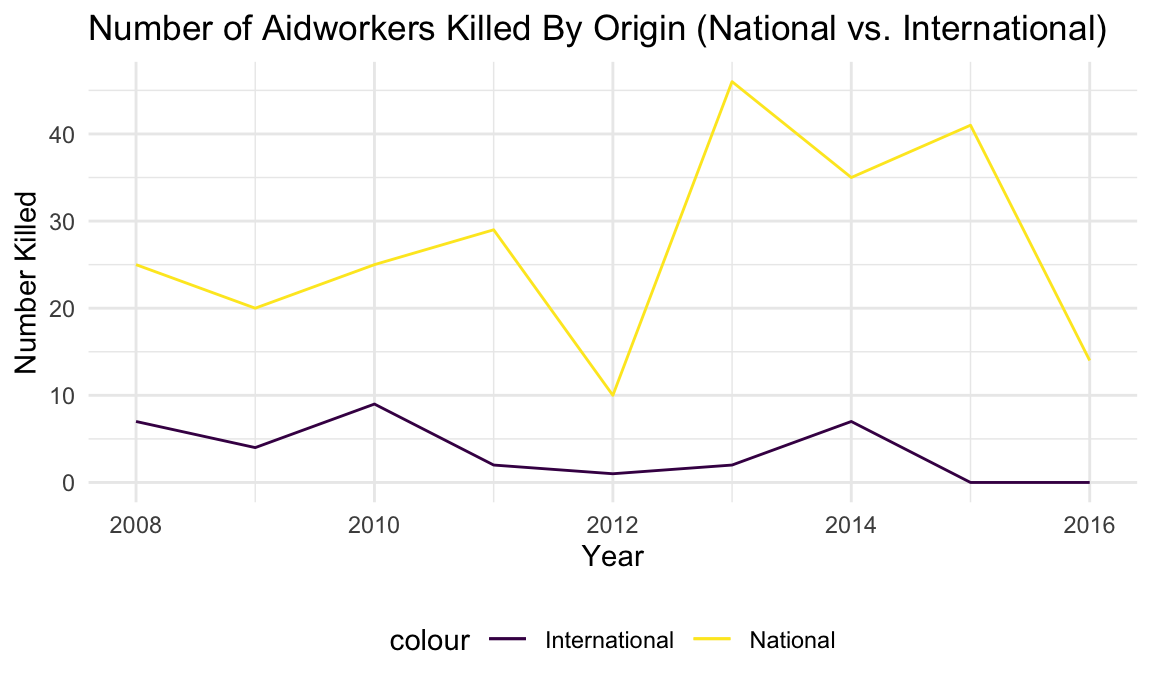
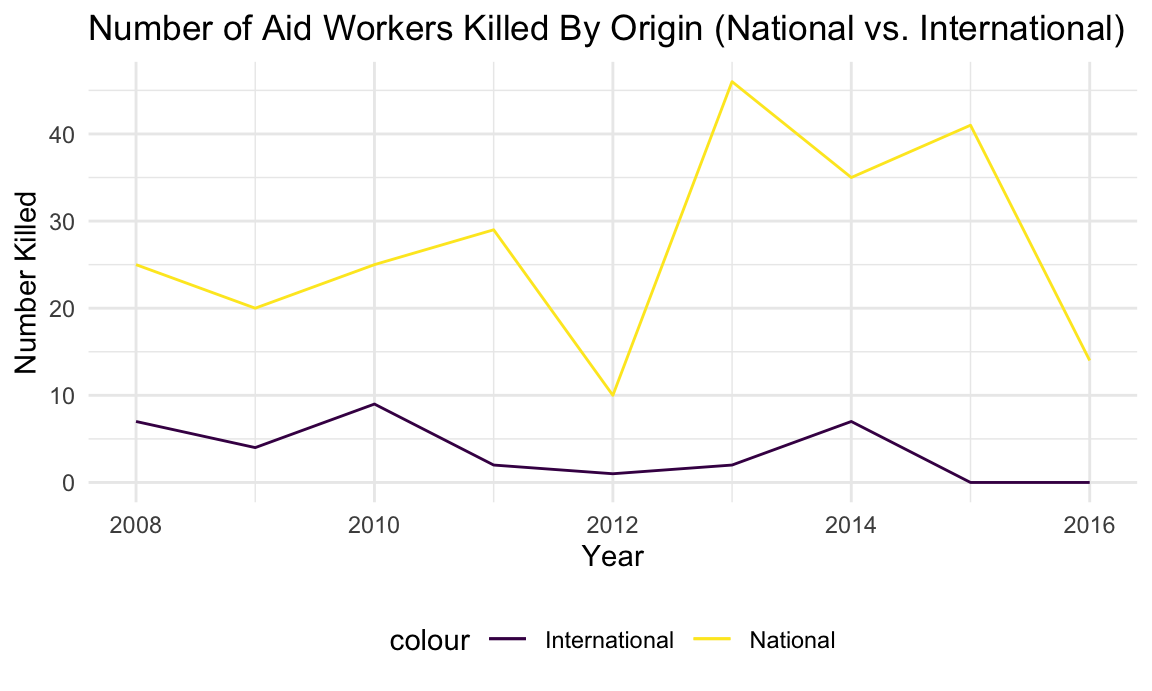
2/5 Afghanistan figures described

Changed region(s): [[0.25, 0.0, 1.0, 0.0912]]

diff --git a/Afghanistan_case_study.html b/Afghanistan_case_study.html
@@ -404,7 +404,8 @@ options(
 scale_colour_discrete = scale_colour_viridis_d
 scale_fill_discrete = scale_fill_viridis_d</code></pre>
 <p>##Explain</p>
-<p>Why we chose Afghanistan… Chose Afghanistan because it has consistently been among the most deadly countries for aid workers, so would have a lot of data. Which datasets are being used… Using Aid worker dataset and the Uppsala datset to compare aidworker deaths to Civilian deaths. We also intended to use a dataset (SHCC) describing attacks on aidworkers, health facilities, and healthcare transport, but this datset was not robust enough to support meaningful data visualization. As such, we chose to exclude it.</p>
+<p>We chose to focus on Afghanistan because it has consistently been among the most deadly countries for aid workers, so we expected fairly robust data. Further, Afghanistan especially has been heavily affected by American occupation, which has changed dramatically between presidential administrations.</p>
+<p>Which datasets are being used… We are using the aid worker dataset and the Uppsala datset to compare aidworker deaths to Civilian deaths. We also intended to use a dataset (SHCC) describing attacks on aidworkers, health facilities, and healthcare transport, but this dataset was not robust enough to support meaningful data visualization. As such, we chose to exclude it.</p>
 <p>Using the years 2008-2016 because…. and supply code 2008-2016 chosen to see whether there might be differences between the Bush (2008-2012) and Obama (2012-2016) administrations.</p>
 <p>Aidworker dataset - cleaning and tailoring</p>
 <pre class="r"><code>#Kailey notes: from section 1 cleaning and filtered for afghanistan/year
@@ -440,13 +441,13 @@ afghan_aidworker_df =
 <h2>Starting EDA and vis</h2>
 <p>Internationals vs. nationals killed (Not in the to-do list but has an interesting spikes and dips; check historical context?)</p>
 <pre class="r"><code>afghan_aidworker_international_df =
-  afghan_aidworker_df %&gt;%
-  group_by(year) %&gt;%
+  afghan_aidworker_df %&gt;% 
+  group_by(year) %&gt;% 
   summarise(sum(internationals_killed)) %&gt;%
   mutate(
     internationals_killed_tot = `sum(internationals_killed)`
   ) %&gt;%
-  select(year, internationals_killed_tot)</code></pre>
+  select(year, internationals_killed_tot) </code></pre>
 <pre><code>## `summarise()` ungrouping output (override with `.groups` argument)</code></pre>
 <pre class="r"><code>afghan_aidworker_national_df =
   afghan_aidworker_df %&gt;%
@@ -466,11 +467,13 @@ afghan_aidworker_df_new %&gt;%
    geom_line() +
   geom_line(aes(x = year, y = nationals_killed_tot, col = &quot;National&quot;)) +
   labs(
-    title = &quot;Number of Aidworkers Killed By Origin (National vs. International)&quot;,
+    title = &quot;Number of Aid Workers Killed By Origin (National vs. International)&quot;,
     x = &quot;Year&quot;,
     y = &quot;Number Killed&quot;
   )</code></pre>
 <p><img src="Afghanistan_case_study_files/figure-html/unnamed-chunk-1-1.png" width="90%" /></p>
+<p><em>2012</em> - The drop in aid worker death is correlated with the withdrawal of half of American troops in Afghanistan.</p>
+<p><em>2013</em> - A sharp increase in aid worker deaths, primarily in rural areas. In 2013, aid workers were frequently caught in crossfire, ambush, and accidents. As you can see in this figure, a majority of aid workers killed are of national origin. According to a report published by the UN in 2013, “Afghan aid workers suffered heavy casualties in part because international organizations were using local staff and local organizations to reduce their own risk…About 85 per cent of United Nations staff involved in security incidents were Afghans; for international non-governmental organizations, it was 76 per cent. Security arrangements of those organizations and the United Nations often left local humanitarian organizations less secure.” Local aid workers rarely received the same security protections as their international colleagues, forcing them into increasingly unsafe situations. After noting this sharp increase in attacks against local aid workers, many aid organizations took steps to decrease apparent distinctions between international and national aid workers in an effort to protect national aid workers’ security.</p>
 <p>More visualizations using aidworker df</p>
 <pre class="r"><code>means_attack_p =
 afghan_aidworker_df %&gt;%
@@ -505,8 +508,11 @@ subplot(means_attack_p, attack_context_p)</code></pre>
 <pre><code>## No scatter mode specifed:
 ##   Setting the mode to markers
 ##   Read more about this attribute -&gt; https://plot.ly/r/reference/#scatter-mode</code></pre>
-<div id="htmlwidget-b00bd8f8852e7a236a0e" style="width:90%;height:345.6px;" class="plotly html-widget"></div>
-<script type="application/json" data-for="htmlwidget-b00bd8f8852e7a236a0e">{"x":{"data":[{"x":[2008,2009,2013,2015,2016],"y":[4,1,1,49,1],"type":"scatter","mode":"markers","name":"Aerial bombardment","marker":{"color":"rgba(102,194,165,1)","line":{"color":"rgba(102,194,165,1)"}},"textfont":{"color":"rgba(102,194,165,1)"},"error_y":{"color":"rgba(102,194,165,1)"},"error_x":{"color":"rgba(102,194,165,1)"},"line":{"color":"rgba(102,194,165,1)"},"xaxis":"x","yaxis":"y","frame":null},{"x":[2009,2009,2010,2010,2010,2011,2011,2011,2011,2011,2011,2011,2012,2012,2012,2012,2012,2013,2013,2013,2013,2013,2013,2014,2014,2014,2014,2015,2016],"y":[1,1,1,3,1,2,1,1,1,1,2,1,1,1,1,1,2,1,1,2,2,1,1,4,1,1,1,1,1],"type":"scatter","mode":"markers","name":"Bodily assault","marker":{"color":"rgba(199,169,129,1)","line":{"color":"rgba(199,169,129,1)"}},"textfont":{"color":"rgba(199,169,129,1)"},"error_y":{"color":"rgba(199,169,129,1)"},"error_x":{"color":"rgba(199,169,129,1)"},"line":{"color":"rgba(199,169,129,1)"},"xaxis":"x","yaxis":"y","frame":null},{"x":[2008,2009,2012,2013,2013,2013],"y":[1,12,1,1,4,1],"type":"scatter","mode":"markers","name":"Body-borne IED","marker":{"color":"rgba(246,143,106,1)","line":{"color":"rgba(246,143,106,1)"}},"textfont":{"color":"rgba(246,143,106,1)"},"error_y":{"color":"rgba(246,143,106,1)"},"error_x":{"color":"rgba(246,143,106,1)"},"line":{"color":"rgba(246,143,106,1)"},"xaxis":"x","yaxis":"y","frame":null},{"x":[2011,2012,2013,2013,2014],"y":[9,4,4,2,2],"type":"scatter","mode":"markers","name":"Complex attack","marker":{"color":"rgba(195,154,163,1)","line":{"color":"rgba(195,154,163,1)"}},"textfont":{"color":"rgba(195,154,163,1)"},"error_y":{"color":"rgba(195,154,163,1)"},"error_x":{"color":"rgba(195,154,163,1)"},"line":{"color":"rgba(195,154,163,1)"},"xaxis":"x","yaxis":"y","frame":null},{"x":[2008,2008,2008,2008,2010,2011,2011,2011,2011,2013,2013,2013,2014,2015,2015,2015],"y":[2,1,1,1,4,1,1,6,3,5,1,2,1,5,1,2],"type":"scatter","mode":"markers","name":"Kidnap-killing","marker":{"color":"rgba(157,157,202,1)","line":{"color":"rgba(157,157,202,1)"}},"textfont":{"color":"rgba(157,157,202,1)"},"error_y":{"color":"rgba(157,157,202,1)"},"error_x":{"color":"rgba(157,157,202,1)"},"line":{"color":"rgba(157,157,202,1)"},"xaxis":"x","yaxis":"y","frame":null},{"x":[2008,2008,2008,2008,2008,2008,2009,2009,2009,2009,2009,2009,2009,2009,2010,2010,2010,2010,2010,2010,2010,2010,2010,2010,2010,2010,2010,2010,2010,2010,2010,2010,2010,2010,2010,2010,2011,2011,2011,2011,2011,2011,2011,2011,2011,2011,2011,2011,2011,2011,2012,2012,2012,2012,2012,2012,2012,2012,2012,2012,2012,2012,2012,2012,2012,2012,2012,2012,2012,2012,2012,2012,2013,2013,2013,2013,2013,2013,2013,2013,2013,2013,2013,2013,2013,2013,2013,2013,2013,2013,2013,2013,2013,2013,2013,2013,2013,2013,2013,2013,2014,2014,2014,2014,2014,2014,2014,2014,2014,2014,2014,2014,2014,2014,2014,2014,2014,2014,2014,2014,2014,2014,2014,2014,2015,2015,2015,2015,2015,2015,2015,2015,2015,2015,2015,2015,2015,2015,2016,2016,2016,2016,2016,2016,2016,2016,2016,2016,2016,2016,2016,2016],"y":[2,3,2,1,1,1,3,1,2,1,1,1,16,2,3,1,5,2,3,4,2,2,2,2,2,5,4,4,1,2,2,1,1,3,1,1,1,3,2,1,1,3,2,3,1,4,2,3,4,1,1,2,3,1,5,4,2,1,1,2,1,1,1,2,4,4,1,2,1,3,3,5,4,1,1,3,1,1,1,1,10,3,11,2,3,1,3,3,2,2,5,2,1,3,1,3,2,3,1,1,3,1,1,3,2,1,4,1,1,2,1,1,4,1,5,3,7,3,2,1,6,3,1,4,1,3,1,2,1,2,1,3,2,2,1,2,1,2,4,5,7,2,7,1,1,2,1,3,2,1,4,1],"type":"scatter","mode":"markers","name":"Kidnapping","marker":{"color":"rgba(206,146,197,1)","line":{"color":"rgba(206,146,197,1)"}},"textfont":{"color":"rgba(206,146,197,1)"},"error_y":{"color":"rgba(206,146,197,1)"},"error_x":{"color":"rgba(206,146,197,1)"},"line":{"color":"rgba(206,146,197,1)"},"xaxis":"x","yaxis":"y","frame":null},{"x":[2010,2015],"y":[5,1],"type":"scatter","mode":"markers","name":"Landmine","marker":{"color":"rgba(220,159,172,1)","line":{"color":"rgba(220,159,172,1)"}},"textfont":{"color":"rgba(220,159,172,1)"},"error_y":{"color":"rgba(220,159,172,1)"},"error_x":{"color":"rgba(220,159,172,1)"},"line":{"color":"rgba(220,159,172,1)"},"xaxis":"x","yaxis":"y","frame":null},{"x":[2012,2013,2014],"y":[3,3,1],"type":"scatter","mode":"markers","name":"Other Explosives","marker":{"color":"rgba(186,200,114,1)","line":{"color":"rgba(186,200,114,1)"}},"textfont":{"color":"rgba(186,200,114,1)"},"error_y":{"color":"rgba(186,200,114,1)"},"error_x":{"color":"rgba(186,200,114,1)"},"line":{"color":"rgba(186,200,114,1)"},"xaxis":"x","yaxis":"y","frame":null},{"x":[2013],"y":[1],"type":"scatter","mode":"markers","name":"Rape/sexual assault","marker":{"color":"rgba(196,217,74,1)","line":{"color":"rgba(196,217,74,1)"}},"textfont":{"color":"rgba(196,217,74,1)"},"error_y":{"color":"rgba(196,217,74,1)"},"error_x":{"color":"rgba(196,217,74,1)"},"line":{"color":"rgba(196,217,74,1)"},"xaxis":"x","yaxis":"y","frame":null},{"x":[2008,2009,2010,2010,2011,2012,2012,2012,2012,2013,2013,2013,2013,2013,2013,2014,2014,2014,2014,2015,2015,2016],"y":[1,3,3,2,3,1,1,1,1,1,3,2,1,1,1,3,1,3,2,1,1,1],"type":"scatter","mode":"markers","name":"Roadside IED","marker":{"color":"rgba(242,217,54,1)","line":{"color":"rgba(242,217,54,1)"}},"textfont":{"color":"rgba(242,217,54,1)"},"error_y":{"color":"rgba(242,217,54,1)"},"error_x":{"color":"rgba(242,217,54,1)"},"line":{"color":"rgba(242,217,54,1)"},"xaxis":"x","yaxis":"y","frame":null},{"x":[2009,2010,2010,2010,2011,2011,2013,2013,2013],"y":[1,1,4,1,1,3,1,1,1],"type":"scatter","mode":"markers","name":"Shelling","marker":{"color":"rgba(246,209,94,1)","line":{"color":"rgba(246,209,94,1)"}},"textfont":{"color":"rgba(246,209,94,1)"},"error_y":{"color":"rgba(246,209,94,1)"},"error_x":{"color":"rgba(246,209,94,1)"},"line":{"color":"rgba(246,209,94,1)"},"xaxis":"x","yaxis":"y","frame":null},{"x":[2008,2008,2008,2008,2008,2008,2008,2008,2009,2009,2009,2009,2009,2009,2010,2010,2010,2010,2010,2010,2010,2010,2010,2010,2010,2010,2010,2010,2011,2011,2011,2011,2011,2011,2011,2011,2011,2011,2011,2011,2011,2011,2011,2012,2012,2012,2012,2012,2012,2012,2012,2012,2012,2012,2012,2012,2012,2012,2012,2013,2013,2013,2013,2013,2013,2013,2013,2013,2013,2013,2013,2013,2013,2013,2013,2013,2013,2014,2014,2014,2014,2014,2014,2014,2014,2014,2014,2015,2015,2015,2016,2016,2016,2016,2016,2016,2016],"y":[1,1,2,1,5,1,1,1,1,1,1,1,1,1,4,1,1,1,1,2,1,1,2,1,2,1,1,1,1,1,1,3,1,1,1,1,1,1,1,1,1,1,1,1,1,1,1,1,1,2,1,1,1,1,4,1,1,1,1,1,1,1,4,1,1,1,2,1,1,1,1,1,1,4,2,1,7,1,1,1,2,1,1,1,2,1,2,9,1,2,1,2,7,3,1,1,1],"type":"scatter","mode":"markers","name":"Shooting","marker":{"color":"rgba(231,198,142,1)","line":{"color":"rgba(231,198,142,1)"}},"textfont":{"color":"rgba(231,198,142,1)"},"error_y":{"color":"rgba(231,198,142,1)"},"error_x":{"color":"rgba(231,198,142,1)"},"line":{"color":"rgba(231,198,142,1)"},"xaxis":"x","yaxis":"y","frame":null},{"x":[2008,2008,2008,2008,2008,2008,2008,2009,2009,2009,2009,2009,2010,2010,2010,2010,2010,2010,2010,2010,2010,2010,2011,2011,2011,2011,2011,2012,2012,2013,2013,2013,2013,2014,2014,2014,2014,2014,2015],"y":[1,1,12,1,2,6,1,1,1,1,1,5,1,1,1,1,1,10,1,1,1,2,1,1,1,1,1,1,4,3,1,3,2,1,11,6,7,2,3],"type":"scatter","mode":"markers","name":"Unknown","marker":{"color":"rgba(207,188,163,1)","line":{"color":"rgba(207,188,163,1)"}},"textfont":{"color":"rgba(207,188,163,1)"},"error_y":{"color":"rgba(207,188,163,1)"},"error_x":{"color":"rgba(207,188,163,1)"},"line":{"color":"rgba(207,188,163,1)"},"xaxis":"x","yaxis":"y","frame":null},{"x":[2008,2008,2009,2010,2011,2011,2012,2012,2012,2012,2013,2013,2013,2013,2013,2014,2014,2014,2014,2015,2016],"y":[4,1,1,1,3,2,2,2,3,5,2,1,1,1,1,1,2,1,2,1,3],"type":"scatter","mode":"markers","name":"Vehicle-born IED","marker":{"color":"rgba(179,179,179,1)","line":{"color":"rgba(179,179,179,1)"}},"textfont":{"color":"rgba(179,179,179,1)"},"error_y":{"color":"rgba(179,179,179,1)"},"error_x":{"color":"rgba(179,179,179,1)"},"line":{"color":"rgba(179,179,179,1)"},"xaxis":"x","yaxis":"y","frame":null},{"x":[2008,2008,2008,2008,2008,2008,2008,2008,2008,2008,2008,2008,2008,2008,2008,2009,2009,2009,2009,2009,2010,2010,2010,2010,2010,2010,2010,2010,2010,2010,2010,2010,2010,2010,2010,2010,2010,2010,2010,2010,2010,2010,2010,2010,2010,2010,2010,2010,2011,2011,2011,2011,2011,2011,2011,2011,2011,2011,2011,2011,2011,2011,2011,2011,2011,2011,2011,2011,2011,2012,2012,2012,2012,2012,2012,2012,2012,2012,2012,2012,2012,2012,2012,2012,2012,2012,2012,2012,2012,2012,2012,2012,2012,2012,2012,2012,2012,2012,2012,2013,2013,2013,2013,2013,2013,2013,2013,2013,2013,2013,2013,2013,2013,2013,2013,2013,2013,2013,2013,2013,2013,2013,2013,2013,2013,2013,2013,2013,2013,2013,2013,2013,2013,2013,2014,2014,2014,2014,2014,2014,2014,2014,2014,2014,2014,2014,2014,2014,2014,2014,2014,2015,2015,2015,2015,2015,2015,2015,2015,2015,2015,2015,2015,2015,2015,2016,2016,2016,2016,2016,2016,2016,2016,2016,2016,2016,2016],"y":[2,1,12,2,1,2,3,5,1,6,4,1,1,1,1,1,1,1,1,16,5,1,5,1,1,2,4,1,2,2,10,2,5,3,2,1,4,4,1,2,2,1,2,2,3,1,1,1,3,1,1,1,3,3,2,1,1,1,1,3,3,1,2,2,3,2,3,4,1,1,2,1,3,1,1,4,1,1,1,2,1,1,1,2,1,1,4,2,1,3,1,4,4,2,1,1,1,1,3,4,1,1,1,3,1,4,1,1,3,11,3,2,2,1,3,1,3,2,2,1,1,1,1,1,5,2,1,4,3,2,2,7,1,1,3,3,3,1,2,2,1,2,1,6,4,2,5,3,2,3,1,3,1,2,3,1,2,1,3,1,2,1,1,1,2,5,2,7,2,1,3,1,3,1,4,1,1],"type":"scatter","mode":"markers","name":"Ambush","marker":{"color":"rgba(102,194,165,1)","line":{"color":"rgba(102,194,165,1)"}},"textfont":{"color":"rgba(102,194,165,1)"},"error_y":{"color":"rgba(102,194,165,1)"},"error_x":{"color":"rgba(102,194,165,1)"},"line":{"color":"rgba(102,194,165,1)"},"xaxis":"x2","yaxis":"y2","frame":null},{"x":[2008,2008,2009,2009,2009,2009,2010,2010,2010,2011,2011,2011,2011,2011,2011,2011,2011,2012,2012,2012,2012,2012,2012,2013,2013,2013,2013,2013,2013,2013,2013,2013,2014,2014,2015,2015,2016,2016],"y":[4,1,1,1,1,1,1,1,1,1,1,1,1,1,1,1,3,1,1,2,1,1,1,1,1,1,1,1,1,1,2,1,2,1,49,2,1,1],"type":"scatter","mode":"markers","name":"Combat/Crossfire","marker":{"color":"rgba(252,141,98,1)","line":{"color":"rgba(252,141,98,1)"}},"textfont":{"color":"rgba(252,141,98,1)"},"error_y":{"color":"rgba(252,141,98,1)"},"error_x":{"color":"rgba(252,141,98,1)"},"line":{"color":"rgba(252,141,98,1)"},"xaxis":"x2","yaxis":"y2","frame":null},{"x":[2008,2008,2008,2008,2009,2009,2009,2009,2009,2010,2010,2010,2010,2010,2010,2010,2010,2010,2010,2010,2011,2011,2011,2011,2011,2011,2011,2011,2011,2011,2011,2012,2012,2012,2012,2012,2012,2013,2013,2013,2013,2013,2013,2013,2013,2013,2013,2013,2013,2013,2013,2013,2014,2014,2014,2014,2014,2014,2016,2016,2016],"y":[1,1,1,1,1,1,1,1,1,4,1,1,1,1,1,2,1,1,3,1,1,1,1,1,1,1,2,1,1,3,1,1,1,1,1,1,1,1,1,1,1,1,1,1,1,1,2,1,2,1,1,3,1,2,1,1,1,1,1,1,1],"type":"scatter","mode":"markers","name":"Individual attack","marker":{"color":"rgba(141,160,203,1)","line":{"color":"rgba(141,160,203,1)"}},"textfont":{"color":"rgba(141,160,203,1)"},"error_y":{"color":"rgba(141,160,203,1)"},"error_x":{"color":"rgba(141,160,203,1)"},"line":{"color":"rgba(141,160,203,1)"},"xaxis":"x2","yaxis":"y2","frame":null},{"x":[2012,2013],"y":[2,2],"type":"scatter","mode":"markers","name":"Mob violence","marker":{"color":"rgba(231,138,195,1)","line":{"color":"rgba(231,138,195,1)"}},"textfont":{"color":"rgba(231,138,195,1)"},"error_y":{"color":"rgba(231,138,195,1)"},"error_x":{"color":"rgba(231,138,195,1)"},"line":{"color":"rgba(231,138,195,1)"},"xaxis":"x2","yaxis":"y2","frame":null},{"x":[2008,2008,2008,2009,2009,2010,2010,2011,2011,2011,2011,2012,2012,2012,2012,2012,2012,2012,2012,2012,2013,2013,2013,2013,2013,2013,2013,2014,2014,2014,2014,2014,2015,2015,2015,2015,2016,2016,2016,2016,2016],"y":[2,1,1,1,12,1,1,2,1,1,9,1,1,2,5,3,2,4,5,5,1,2,3,1,4,4,3,2,1,1,2,2,1,9,1,1,3,7,7,1,1],"type":"scatter","mode":"markers","name":"Raid","marker":{"color":"rgba(166,216,84,1)","line":{"color":"rgba(166,216,84,1)"}},"textfont":{"color":"rgba(166,216,84,1)"},"error_y":{"color":"rgba(166,216,84,1)"},"error_x":{"color":"rgba(166,216,84,1)"},"line":{"color":"rgba(166,216,84,1)"},"xaxis":"x2","yaxis":"y2","frame":null},{"x":[2008,2008,2008,2008,2008,2008,2009,2009,2009,2009,2009,2009,2009,2009,2009,2009,2010,2010,2010,2010,2010,2010,2010,2010,2010,2010,2010,2010,2010,2011,2011,2011,2011,2011,2011,2011,2012,2012,2012,2012,2013,2013,2013,2013,2013,2013,2013,2013,2013,2013,2013,2013,2013,2013,2014,2014,2014,2014,2014,2014,2014,2014,2014,2014,2014,2014,2014,2014,2014,2014,2014,2014,2014,2014,2014,2014,2014,2014,2015,2015,2015,2015,2015,2015,2015,2016,2016,2016],"y":[1,1,1,1,2,1,3,2,1,1,1,3,2,1,1,5,1,1,3,1,3,4,2,2,4,1,1,2,1,1,1,1,1,6,1,4,1,1,4,3,1,1,10,1,5,1,3,1,1,3,2,2,3,1,4,1,1,1,1,1,1,1,4,1,1,3,1,11,1,1,7,2,1,7,3,1,6,4,5,1,2,1,2,2,1,4,2,2],"type":"scatter","mode":"markers","name":"Unknown","marker":{"color":"rgba(255,217,47,1)","line":{"color":"rgba(255,217,47,1)"}},"textfont":{"color":"rgba(255,217,47,1)"},"error_y":{"color":"rgba(255,217,47,1)"},"error_x":{"color":"rgba(255,217,47,1)"},"line":{"color":"rgba(255,217,47,1)"},"xaxis":"x2","yaxis":"y2","frame":null}],"layout":{"xaxis":{"domain":[0,0.48],"automargin":true,"anchor":"y"},"xaxis2":{"domain":[0.52,1],"automargin":true,"anchor":"y2"},"yaxis2":{"domain":[0,1],"automargin":true,"anchor":"x2"},"yaxis":{"domain":[0,1],"automargin":true,"anchor":"x"},"annotations":[],"shapes":[],"images":[],"margin":{"b":40,"l":60,"t":25,"r":10},"title":"Victims per Year by Attack Context","hovermode":"closest","showlegend":true},"attrs":{"1fcce38327":{"x":{},"y":{},"color":{},"alpha_stroke":1,"sizes":[10,100],"spans":[1,20],"type":"scatter"},"1fcc58b775e5":{"x":{},"y":{},"color":{},"alpha_stroke":1,"sizes":[10,100],"spans":[1,20],"type":"scatter"}},"source":"A","config":{"showSendToCloud":false},"highlight":{"on":"plotly_click","persistent":false,"dynamic":false,"selectize":false,"opacityDim":0.2,"selected":{"opacity":1},"debounce":0},"subplot":true,"shinyEvents":["plotly_hover","plotly_click","plotly_selected","plotly_relayout","plotly_brushed","plotly_brushing","plotly_clickannotation","plotly_doubleclick","plotly_deselect","plotly_afterplot","plotly_sunburstclick"],"base_url":"https://plot.ly"},"evals":[],"jsHooks":[]}</script>
+<div id="htmlwidget-a172951081f38150f335" style="width:90%;height:345.6px;" class="plotly html-widget"></div>
+<script type="application/json" data-for="htmlwidget-a172951081f38150f335">{"x":{"data":[{"x":[2008,2009,2013,2015,2016],"y":[4,1,1,49,1],"type":"scatter","mode":"markers","name":"Aerial bombardment","marker":{"color":"rgba(102,194,165,1)","line":{"color":"rgba(102,194,165,1)"}},"textfont":{"color":"rgba(102,194,165,1)"},"error_y":{"color":"rgba(102,194,165,1)"},"error_x":{"color":"rgba(102,194,165,1)"},"line":{"color":"rgba(102,194,165,1)"},"xaxis":"x","yaxis":"y","frame":null},{"x":[2009,2009,2010,2010,2010,2011,2011,2011,2011,2011,2011,2011,2012,2012,2012,2012,2012,2013,2013,2013,2013,2013,2013,2014,2014,2014,2014,2015,2016],"y":[1,1,1,3,1,2,1,1,1,1,2,1,1,1,1,1,2,1,1,2,2,1,1,4,1,1,1,1,1],"type":"scatter","mode":"markers","name":"Bodily assault","marker":{"color":"rgba(199,169,129,1)","line":{"color":"rgba(199,169,129,1)"}},"textfont":{"color":"rgba(199,169,129,1)"},"error_y":{"color":"rgba(199,169,129,1)"},"error_x":{"color":"rgba(199,169,129,1)"},"line":{"color":"rgba(199,169,129,1)"},"xaxis":"x","yaxis":"y","frame":null},{"x":[2008,2009,2012,2013,2013,2013],"y":[1,12,1,1,4,1],"type":"scatter","mode":"markers","name":"Body-borne IED","marker":{"color":"rgba(246,143,106,1)","line":{"color":"rgba(246,143,106,1)"}},"textfont":{"color":"rgba(246,143,106,1)"},"error_y":{"color":"rgba(246,143,106,1)"},"error_x":{"color":"rgba(246,143,106,1)"},"line":{"color":"rgba(246,143,106,1)"},"xaxis":"x","yaxis":"y","frame":null},{"x":[2011,2012,2013,2013,2014],"y":[9,4,4,2,2],"type":"scatter","mode":"markers","name":"Complex attack","marker":{"color":"rgba(195,154,163,1)","line":{"color":"rgba(195,154,163,1)"}},"textfont":{"color":"rgba(195,154,163,1)"},"error_y":{"color":"rgba(195,154,163,1)"},"error_x":{"color":"rgba(195,154,163,1)"},"line":{"color":"rgba(195,154,163,1)"},"xaxis":"x","yaxis":"y","frame":null},{"x":[2008,2008,2008,2008,2010,2011,2011,2011,2011,2013,2013,2013,2014,2015,2015,2015],"y":[2,1,1,1,4,1,1,6,3,5,1,2,1,5,1,2],"type":"scatter","mode":"markers","name":"Kidnap-killing","marker":{"color":"rgba(157,157,202,1)","line":{"color":"rgba(157,157,202,1)"}},"textfont":{"color":"rgba(157,157,202,1)"},"error_y":{"color":"rgba(157,157,202,1)"},"error_x":{"color":"rgba(157,157,202,1)"},"line":{"color":"rgba(157,157,202,1)"},"xaxis":"x","yaxis":"y","frame":null},{"x":[2008,2008,2008,2008,2008,2008,2009,2009,2009,2009,2009,2009,2009,2009,2010,2010,2010,2010,2010,2010,2010,2010,2010,2010,2010,2010,2010,2010,2010,2010,2010,2010,2010,2010,2010,2010,2011,2011,2011,2011,2011,2011,2011,2011,2011,2011,2011,2011,2011,2011,2012,2012,2012,2012,2012,2012,2012,2012,2012,2012,2012,2012,2012,2012,2012,2012,2012,2012,2012,2012,2012,2012,2013,2013,2013,2013,2013,2013,2013,2013,2013,2013,2013,2013,2013,2013,2013,2013,2013,2013,2013,2013,2013,2013,2013,2013,2013,2013,2013,2013,2014,2014,2014,2014,2014,2014,2014,2014,2014,2014,2014,2014,2014,2014,2014,2014,2014,2014,2014,2014,2014,2014,2014,2014,2015,2015,2015,2015,2015,2015,2015,2015,2015,2015,2015,2015,2015,2015,2016,2016,2016,2016,2016,2016,2016,2016,2016,2016,2016,2016,2016,2016],"y":[2,3,2,1,1,1,3,1,2,1,1,1,16,2,3,1,5,2,3,4,2,2,2,2,2,5,4,4,1,2,2,1,1,3,1,1,1,3,2,1,1,3,2,3,1,4,2,3,4,1,1,2,3,1,5,4,2,1,1,2,1,1,1,2,4,4,1,2,1,3,3,5,4,1,1,3,1,1,1,1,10,3,11,2,3,1,3,3,2,2,5,2,1,3,1,3,2,3,1,1,3,1,1,3,2,1,4,1,1,2,1,1,4,1,5,3,7,3,2,1,6,3,1,4,1,3,1,2,1,2,1,3,2,2,1,2,1,2,4,5,7,2,7,1,1,2,1,3,2,1,4,1],"type":"scatter","mode":"markers","name":"Kidnapping","marker":{"color":"rgba(206,146,197,1)","line":{"color":"rgba(206,146,197,1)"}},"textfont":{"color":"rgba(206,146,197,1)"},"error_y":{"color":"rgba(206,146,197,1)"},"error_x":{"color":"rgba(206,146,197,1)"},"line":{"color":"rgba(206,146,197,1)"},"xaxis":"x","yaxis":"y","frame":null},{"x":[2010,2015],"y":[5,1],"type":"scatter","mode":"markers","name":"Landmine","marker":{"color":"rgba(220,159,172,1)","line":{"color":"rgba(220,159,172,1)"}},"textfont":{"color":"rgba(220,159,172,1)"},"error_y":{"color":"rgba(220,159,172,1)"},"error_x":{"color":"rgba(220,159,172,1)"},"line":{"color":"rgba(220,159,172,1)"},"xaxis":"x","yaxis":"y","frame":null},{"x":[2012,2013,2014],"y":[3,3,1],"type":"scatter","mode":"markers","name":"Other Explosives","marker":{"color":"rgba(186,200,114,1)","line":{"color":"rgba(186,200,114,1)"}},"textfont":{"color":"rgba(186,200,114,1)"},"error_y":{"color":"rgba(186,200,114,1)"},"error_x":{"color":"rgba(186,200,114,1)"},"line":{"color":"rgba(186,200,114,1)"},"xaxis":"x","yaxis":"y","frame":null},{"x":[2013],"y":[1],"type":"scatter","mode":"markers","name":"Rape/sexual assault","marker":{"color":"rgba(196,217,74,1)","line":{"color":"rgba(196,217,74,1)"}},"textfont":{"color":"rgba(196,217,74,1)"},"error_y":{"color":"rgba(196,217,74,1)"},"error_x":{"color":"rgba(196,217,74,1)"},"line":{"color":"rgba(196,217,74,1)"},"xaxis":"x","yaxis":"y","frame":null},{"x":[2008,2009,2010,2010,2011,2012,2012,2012,2012,2013,2013,2013,2013,2013,2013,2014,2014,2014,2014,2015,2015,2016],"y":[1,3,3,2,3,1,1,1,1,1,3,2,1,1,1,3,1,3,2,1,1,1],"type":"scatter","mode":"markers","name":"Roadside IED","marker":{"color":"rgba(242,217,54,1)","line":{"color":"rgba(242,217,54,1)"}},"textfont":{"color":"rgba(242,217,54,1)"},"error_y":{"color":"rgba(242,217,54,1)"},"error_x":{"color":"rgba(242,217,54,1)"},"line":{"color":"rgba(242,217,54,1)"},"xaxis":"x","yaxis":"y","frame":null},{"x":[2009,2010,2010,2010,2011,2011,2013,2013,2013],"y":[1,1,4,1,1,3,1,1,1],"type":"scatter","mode":"markers","name":"Shelling","marker":{"color":"rgba(246,209,94,1)","line":{"color":"rgba(246,209,94,1)"}},"textfont":{"color":"rgba(246,209,94,1)"},"error_y":{"color":"rgba(246,209,94,1)"},"error_x":{"color":"rgba(246,209,94,1)"},"line":{"color":"rgba(246,209,94,1)"},"xaxis":"x","yaxis":"y","frame":null},{"x":[2008,2008,2008,2008,2008,2008,2008,2008,2009,2009,2009,2009,2009,2009,2010,2010,2010,2010,2010,2010,2010,2010,2010,2010,2010,2010,2010,2010,2011,2011,2011,2011,2011,2011,2011,2011,2011,2011,2011,2011,2011,2011,2011,2012,2012,2012,2012,2012,2012,2012,2012,2012,2012,2012,2012,2012,2012,2012,2012,2013,2013,2013,2013,2013,2013,2013,2013,2013,2013,2013,2013,2013,2013,2013,2013,2013,2013,2014,2014,2014,2014,2014,2014,2014,2014,2014,2014,2015,2015,2015,2016,2016,2016,2016,2016,2016,2016],"y":[1,1,2,1,5,1,1,1,1,1,1,1,1,1,4,1,1,1,1,2,1,1,2,1,2,1,1,1,1,1,1,3,1,1,1,1,1,1,1,1,1,1,1,1,1,1,1,1,1,2,1,1,1,1,4,1,1,1,1,1,1,1,4,1,1,1,2,1,1,1,1,1,1,4,2,1,7,1,1,1,2,1,1,1,2,1,2,9,1,2,1,2,7,3,1,1,1],"type":"scatter","mode":"markers","name":"Shooting","marker":{"color":"rgba(231,198,142,1)","line":{"color":"rgba(231,198,142,1)"}},"textfont":{"color":"rgba(231,198,142,1)"},"error_y":{"color":"rgba(231,198,142,1)"},"error_x":{"color":"rgba(231,198,142,1)"},"line":{"color":"rgba(231,198,142,1)"},"xaxis":"x","yaxis":"y","frame":null},{"x":[2008,2008,2008,2008,2008,2008,2008,2009,2009,2009,2009,2009,2010,2010,2010,2010,2010,2010,2010,2010,2010,2010,2011,2011,2011,2011,2011,2012,2012,2013,2013,2013,2013,2014,2014,2014,2014,2014,2015],"y":[1,1,12,1,2,6,1,1,1,1,1,5,1,1,1,1,1,10,1,1,1,2,1,1,1,1,1,1,4,3,1,3,2,1,11,6,7,2,3],"type":"scatter","mode":"markers","name":"Unknown","marker":{"color":"rgba(207,188,163,1)","line":{"color":"rgba(207,188,163,1)"}},"textfont":{"color":"rgba(207,188,163,1)"},"error_y":{"color":"rgba(207,188,163,1)"},"error_x":{"color":"rgba(207,188,163,1)"},"line":{"color":"rgba(207,188,163,1)"},"xaxis":"x","yaxis":"y","frame":null},{"x":[2008,2008,2009,2010,2011,2011,2012,2012,2012,2012,2013,2013,2013,2013,2013,2014,2014,2014,2014,2015,2016],"y":[4,1,1,1,3,2,2,2,3,5,2,1,1,1,1,1,2,1,2,1,3],"type":"scatter","mode":"markers","name":"Vehicle-born IED","marker":{"color":"rgba(179,179,179,1)","line":{"color":"rgba(179,179,179,1)"}},"textfont":{"color":"rgba(179,179,179,1)"},"error_y":{"color":"rgba(179,179,179,1)"},"error_x":{"color":"rgba(179,179,179,1)"},"line":{"color":"rgba(179,179,179,1)"},"xaxis":"x","yaxis":"y","frame":null},{"x":[2008,2008,2008,2008,2008,2008,2008,2008,2008,2008,2008,2008,2008,2008,2008,2009,2009,2009,2009,2009,2010,2010,2010,2010,2010,2010,2010,2010,2010,2010,2010,2010,2010,2010,2010,2010,2010,2010,2010,2010,2010,2010,2010,2010,2010,2010,2010,2010,2011,2011,2011,2011,2011,2011,2011,2011,2011,2011,2011,2011,2011,2011,2011,2011,2011,2011,2011,2011,2011,2012,2012,2012,2012,2012,2012,2012,2012,2012,2012,2012,2012,2012,2012,2012,2012,2012,2012,2012,2012,2012,2012,2012,2012,2012,2012,2012,2012,2012,2012,2013,2013,2013,2013,2013,2013,2013,2013,2013,2013,2013,2013,2013,2013,2013,2013,2013,2013,2013,2013,2013,2013,2013,2013,2013,2013,2013,2013,2013,2013,2013,2013,2013,2013,2013,2014,2014,2014,2014,2014,2014,2014,2014,2014,2014,2014,2014,2014,2014,2014,2014,2014,2015,2015,2015,2015,2015,2015,2015,2015,2015,2015,2015,2015,2015,2015,2016,2016,2016,2016,2016,2016,2016,2016,2016,2016,2016,2016],"y":[2,1,12,2,1,2,3,5,1,6,4,1,1,1,1,1,1,1,1,16,5,1,5,1,1,2,4,1,2,2,10,2,5,3,2,1,4,4,1,2,2,1,2,2,3,1,1,1,3,1,1,1,3,3,2,1,1,1,1,3,3,1,2,2,3,2,3,4,1,1,2,1,3,1,1,4,1,1,1,2,1,1,1,2,1,1,4,2,1,3,1,4,4,2,1,1,1,1,3,4,1,1,1,3,1,4,1,1,3,11,3,2,2,1,3,1,3,2,2,1,1,1,1,1,5,2,1,4,3,2,2,7,1,1,3,3,3,1,2,2,1,2,1,6,4,2,5,3,2,3,1,3,1,2,3,1,2,1,3,1,2,1,1,1,2,5,2,7,2,1,3,1,3,1,4,1,1],"type":"scatter","mode":"markers","name":"Ambush","marker":{"color":"rgba(102,194,165,1)","line":{"color":"rgba(102,194,165,1)"}},"textfont":{"color":"rgba(102,194,165,1)"},"error_y":{"color":"rgba(102,194,165,1)"},"error_x":{"color":"rgba(102,194,165,1)"},"line":{"color":"rgba(102,194,165,1)"},"xaxis":"x2","yaxis":"y2","frame":null},{"x":[2008,2008,2009,2009,2009,2009,2010,2010,2010,2011,2011,2011,2011,2011,2011,2011,2011,2012,2012,2012,2012,2012,2012,2013,2013,2013,2013,2013,2013,2013,2013,2013,2014,2014,2015,2015,2016,2016],"y":[4,1,1,1,1,1,1,1,1,1,1,1,1,1,1,1,3,1,1,2,1,1,1,1,1,1,1,1,1,1,2,1,2,1,49,2,1,1],"type":"scatter","mode":"markers","name":"Combat/Crossfire","marker":{"color":"rgba(252,141,98,1)","line":{"color":"rgba(252,141,98,1)"}},"textfont":{"color":"rgba(252,141,98,1)"},"error_y":{"color":"rgba(252,141,98,1)"},"error_x":{"color":"rgba(252,141,98,1)"},"line":{"color":"rgba(252,141,98,1)"},"xaxis":"x2","yaxis":"y2","frame":null},{"x":[2008,2008,2008,2008,2009,2009,2009,2009,2009,2010,2010,2010,2010,2010,2010,2010,2010,2010,2010,2010,2011,2011,2011,2011,2011,2011,2011,2011,2011,2011,2011,2012,2012,2012,2012,2012,2012,2013,2013,2013,2013,2013,2013,2013,2013,2013,2013,2013,2013,2013,2013,2013,2014,2014,2014,2014,2014,2014,2016,2016,2016],"y":[1,1,1,1,1,1,1,1,1,4,1,1,1,1,1,2,1,1,3,1,1,1,1,1,1,1,2,1,1,3,1,1,1,1,1,1,1,1,1,1,1,1,1,1,1,1,2,1,2,1,1,3,1,2,1,1,1,1,1,1,1],"type":"scatter","mode":"markers","name":"Individual attack","marker":{"color":"rgba(141,160,203,1)","line":{"color":"rgba(141,160,203,1)"}},"textfont":{"color":"rgba(141,160,203,1)"},"error_y":{"color":"rgba(141,160,203,1)"},"error_x":{"color":"rgba(141,160,203,1)"},"line":{"color":"rgba(141,160,203,1)"},"xaxis":"x2","yaxis":"y2","frame":null},{"x":[2012,2013],"y":[2,2],"type":"scatter","mode":"markers","name":"Mob violence","marker":{"color":"rgba(231,138,195,1)","line":{"color":"rgba(231,138,195,1)"}},"textfont":{"color":"rgba(231,138,195,1)"},"error_y":{"color":"rgba(231,138,195,1)"},"error_x":{"color":"rgba(231,138,195,1)"},"line":{"color":"rgba(231,138,195,1)"},"xaxis":"x2","yaxis":"y2","frame":null},{"x":[2008,2008,2008,2009,2009,2010,2010,2011,2011,2011,2011,2012,2012,2012,2012,2012,2012,2012,2012,2012,2013,2013,2013,2013,2013,2013,2013,2014,2014,2014,2014,2014,2015,2015,2015,2015,2016,2016,2016,2016,2016],"y":[2,1,1,1,12,1,1,2,1,1,9,1,1,2,5,3,2,4,5,5,1,2,3,1,4,4,3,2,1,1,2,2,1,9,1,1,3,7,7,1,1],"type":"scatter","mode":"markers","name":"Raid","marker":{"color":"rgba(166,216,84,1)","line":{"color":"rgba(166,216,84,1)"}},"textfont":{"color":"rgba(166,216,84,1)"},"error_y":{"color":"rgba(166,216,84,1)"},"error_x":{"color":"rgba(166,216,84,1)"},"line":{"color":"rgba(166,216,84,1)"},"xaxis":"x2","yaxis":"y2","frame":null},{"x":[2008,2008,2008,2008,2008,2008,2009,2009,2009,2009,2009,2009,2009,2009,2009,2009,2010,2010,2010,2010,2010,2010,2010,2010,2010,2010,2010,2010,2010,2011,2011,2011,2011,2011,2011,2011,2012,2012,2012,2012,2013,2013,2013,2013,2013,2013,2013,2013,2013,2013,2013,2013,2013,2013,2014,2014,2014,2014,2014,2014,2014,2014,2014,2014,2014,2014,2014,2014,2014,2014,2014,2014,2014,2014,2014,2014,2014,2014,2015,2015,2015,2015,2015,2015,2015,2016,2016,2016],"y":[1,1,1,1,2,1,3,2,1,1,1,3,2,1,1,5,1,1,3,1,3,4,2,2,4,1,1,2,1,1,1,1,1,6,1,4,1,1,4,3,1,1,10,1,5,1,3,1,1,3,2,2,3,1,4,1,1,1,1,1,1,1,4,1,1,3,1,11,1,1,7,2,1,7,3,1,6,4,5,1,2,1,2,2,1,4,2,2],"type":"scatter","mode":"markers","name":"Unknown","marker":{"color":"rgba(255,217,47,1)","line":{"color":"rgba(255,217,47,1)"}},"textfont":{"color":"rgba(255,217,47,1)"},"error_y":{"color":"rgba(255,217,47,1)"},"error_x":{"color":"rgba(255,217,47,1)"},"line":{"color":"rgba(255,217,47,1)"},"xaxis":"x2","yaxis":"y2","frame":null}],"layout":{"xaxis":{"domain":[0,0.48],"automargin":true,"anchor":"y"},"xaxis2":{"domain":[0.52,1],"automargin":true,"anchor":"y2"},"yaxis2":{"domain":[0,1],"automargin":true,"anchor":"x2"},"yaxis":{"domain":[0,1],"automargin":true,"anchor":"x"},"annotations":[],"shapes":[],"images":[],"margin":{"b":40,"l":60,"t":25,"r":10},"title":"Victims per Year by Attack Context","hovermode":"closest","showlegend":true},"attrs":{"2994c048ef6":{"x":{},"y":{},"color":{},"alpha_stroke":1,"sizes":[10,100],"spans":[1,20],"type":"scatter"},"29947f45bea3":{"x":{},"y":{},"color":{},"alpha_stroke":1,"sizes":[10,100],"spans":[1,20],"type":"scatter"}},"source":"A","config":{"showSendToCloud":false},"highlight":{"on":"plotly_click","persistent":false,"dynamic":false,"selectize":false,"opacityDim":0.2,"selected":{"opacity":1},"debounce":0},"subplot":true,"shinyEvents":["plotly_hover","plotly_click","plotly_selected","plotly_relayout","plotly_brushed","plotly_brushing","plotly_clickannotation","plotly_doubleclick","plotly_deselect","plotly_afterplot","plotly_sunburstclick"],"base_url":"https://plot.ly"},"evals":[],"jsHooks":[]}</script>
+<p>Of known attack types affecting aid workers in Afghanistan, the most common are kidnappings, shootings, ambushes, and raids. The largest attack was a 2015 aerial bombardment by the U.S. military, in which aid workers were caught in combat/crossfire that left 19 dead and 37 wounded (including patients and aid workers).</p>
+<p>On October 3rd, 2015, following Taliban insurgents storming the capital, the U.S. military conducted a 4-hour airstrike that hit a hospital run by Médecins Sans Frontières (MSF, Doctors Without Borders), destroying the main hospital building. Patients unable to escape burned to death, while hospital staff scrambled to evacuate as many patients as possible.</p>
+<p>Kunduz was the Taliban’s last stronghold before being driven out by NATO.</p>
 <pre class="r"><code>afghan_aidworker_df %&gt;% 
      ggplot(aes(x = location, fill = means_of_attack)) +
    geom_bar() +
@@ -536,6 +542,7 @@ afghan_aidworker_df %&gt;%
             tot_both = sum(total_victims),
             pct_intl = (tot_intl/tot_both)*100,
             pct_national = (tot_national/tot_both)*100) %&gt;%
+  
   ggplot(aes(x = year, y = pct_national, col = 3)) +
   geom_line() +
    geom_line(aes(x = year, y = pct_intl, col = 2)) +
@@ -559,9 +566,9 @@ afghan_aidworker_df %&gt;%
   ggplot(aes(x = year, y = tot_victims)) +
    geom_line(color = &quot;red&quot;, size =2) +
   labs(
-    title = &quot;Total # Aidworkers Killed per Year&quot;,
+    title = &quot;Total # Aid Workers Killed per Year&quot;,
     x = &quot;Year&quot;,
-    y = &quot;Number Aidworkers Killed&quot;
+    y = &quot;Number Aid Workers Killed&quot;
   ) </code></pre>
 <pre><code>## `summarise()` ungrouping output (override with `.groups` argument)</code></pre>
 <pre class="r"><code>#All civilians, from the Uppsala dataset:
